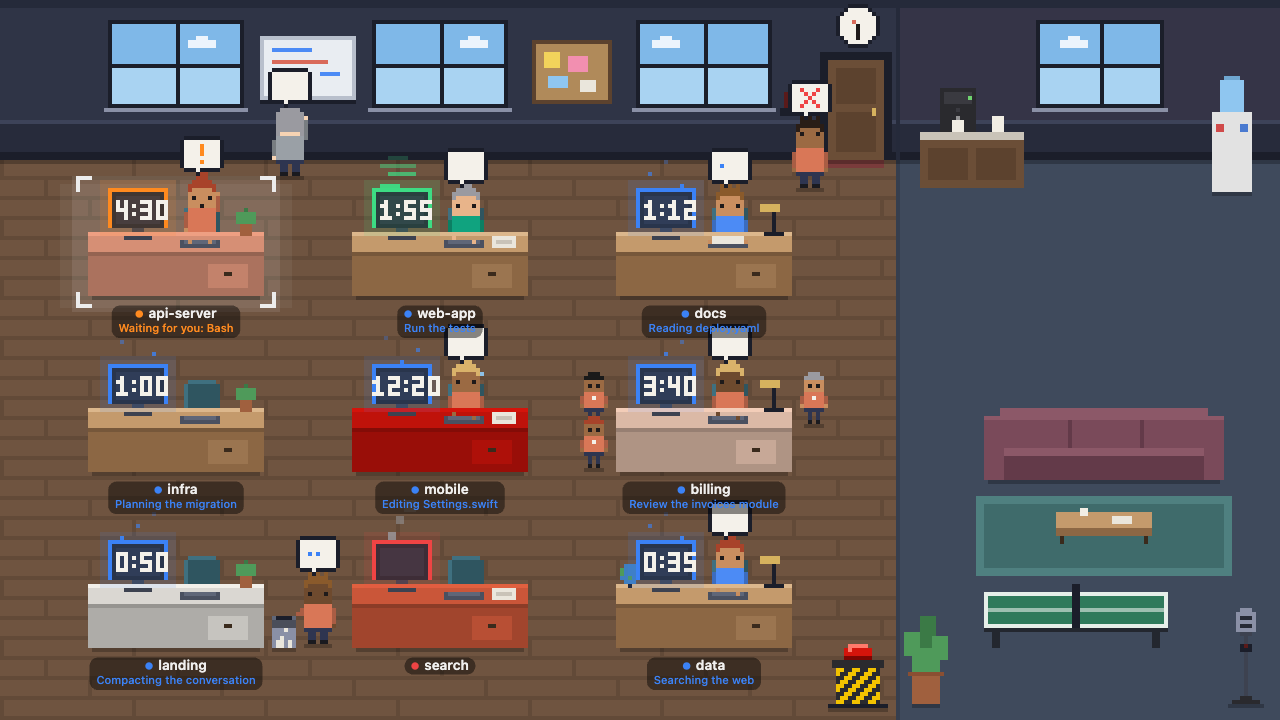
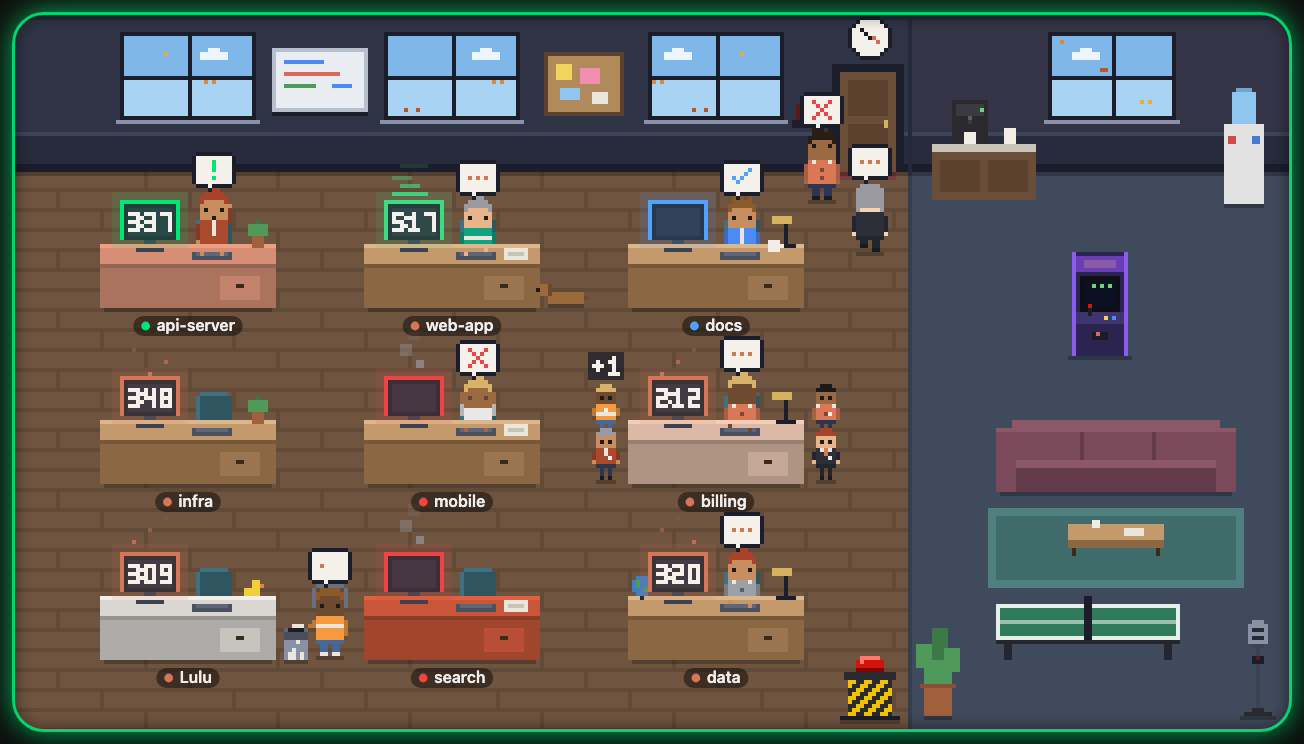
README: new screenshots and GIF for 1.6

diff --git a/README.md b/README.md
@@ -3,7 +3,7 @@
 [![CI](https://github.com/Sauzze/agentdeck/actions/workflows/ci.yml/badge.svg)](https://github.com/Sauzze/agentdeck/actions/workflows/ci.yml)
 
 <p align="center">
-  <img src="docs/demo.gif" alt="SauzzeDeck Pro in use: the phone's keys become a pixel-art office, which goes full screen sideways; an agent waiting on you is answered from the room with ▼ and ✓, the big red button sends another to max effort, and the office pops out into a window on a Mac" width="800">
+  <img src="docs/demo.gif" alt="SauzzeDeck Pro 1.6 in use: an agent's outfit changes with its model from a T-shirt to a suit; the office is refurnished from the floor to the lounge, a pet and the seasons; a held desk shows paint chips for effort and the big red button sends another agent to max; then one agent is fired and walks out with a box, and a new hire walks in" width="800">
 </p>
 
 A control pad on your phone for the AI coding agents in your terminal: Claude
@@ -217,7 +217,7 @@ SauzzeDeck Pro again from Applications.
 ## The office
 
 <p align="center">
-  <img src="docs/office.png" alt="The office: an agent at each of nine desks, one writing on the whiteboard, one feeding a shredder, one waiting under the clock, three interns round a desk, and the big red button in the corridor" width="800">
+  <img src="docs/office.png" alt="The office: nine agents at their desks, dressed for their models from a T-shirt to a suit, one waving for attention as the room's edge glows, interns round a desk, a dog lying by the web-app desk, an arcade machine in the lounge, and the big red button in the corridor" width="800">
 </p>
 
 Your sessions can also be people in a little pixel-art office. Each key is a
